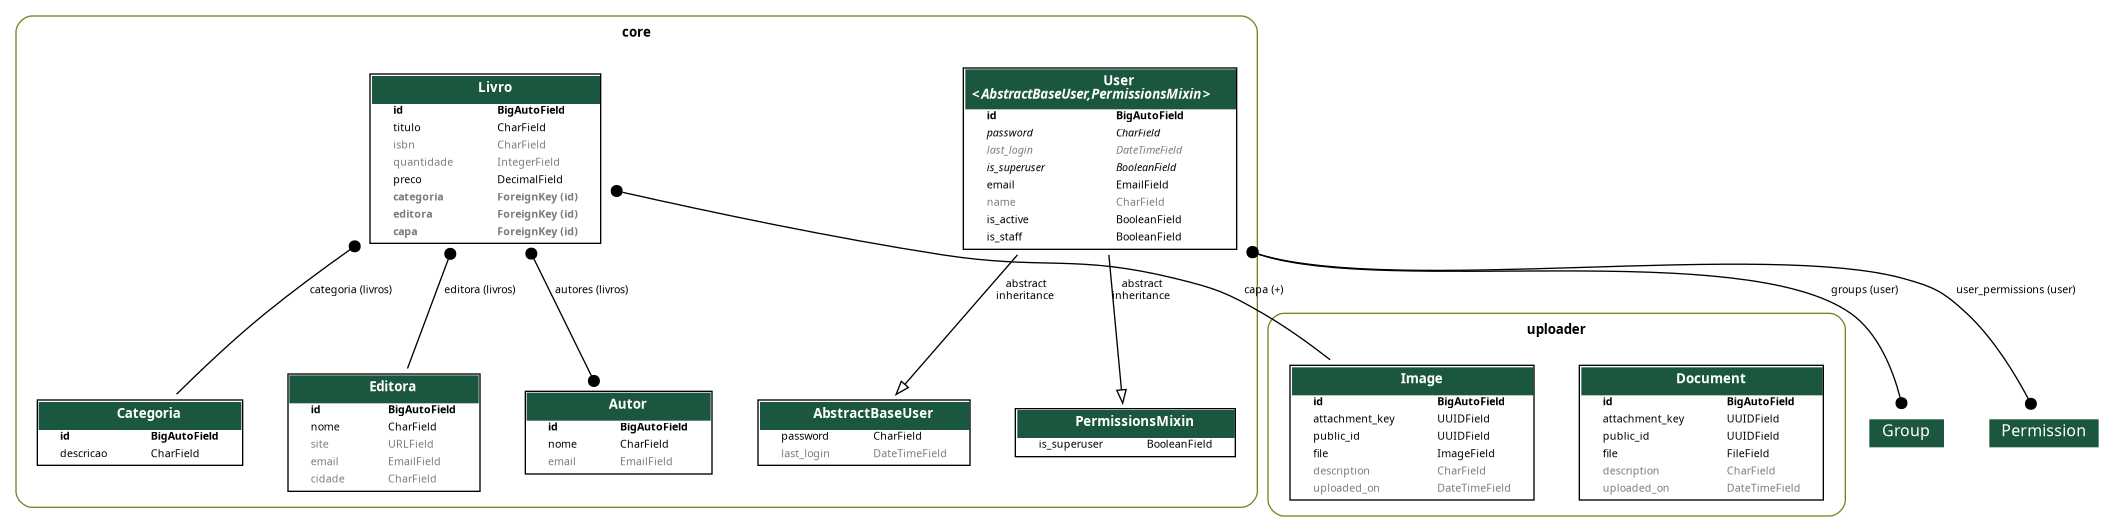
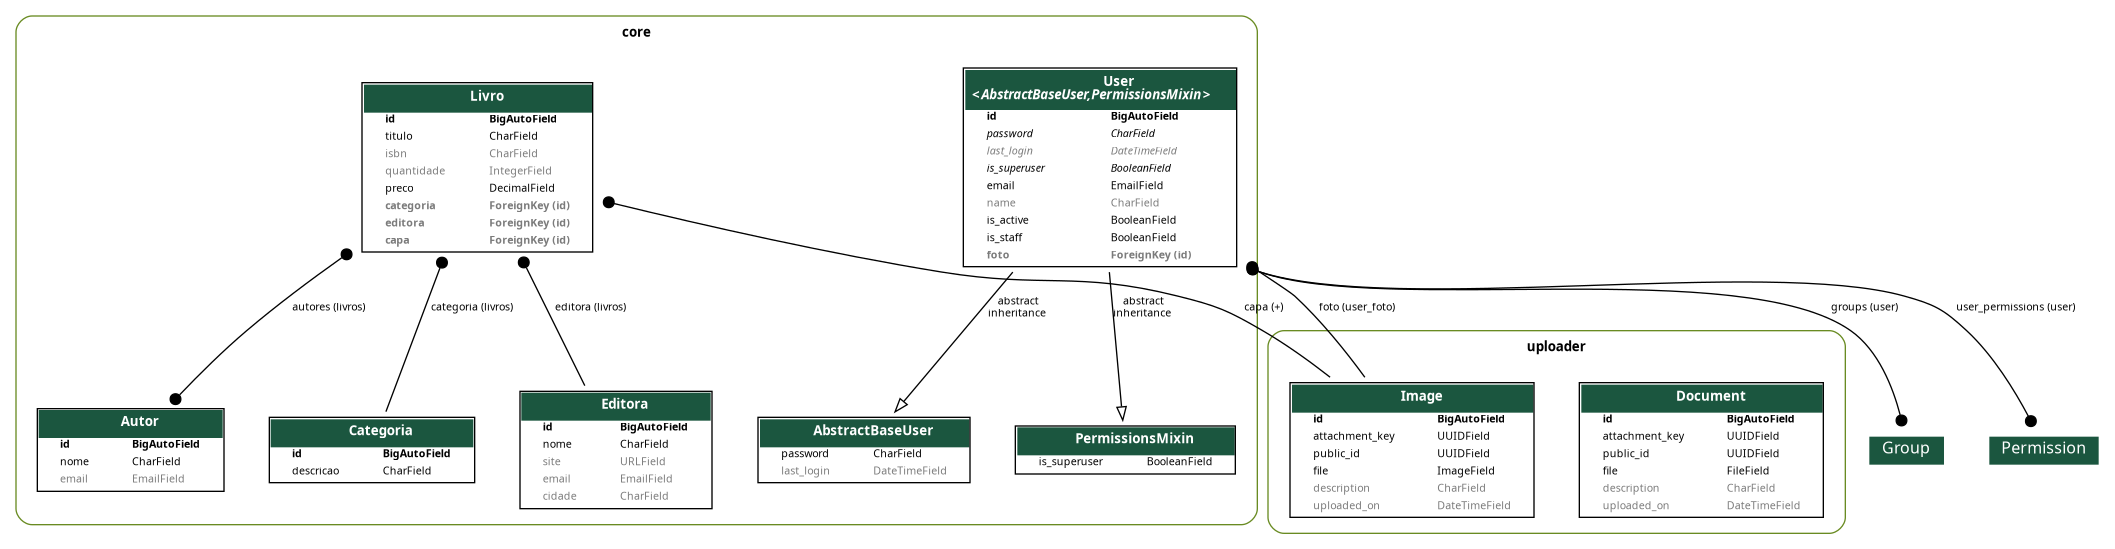
feat: inclusão da foto de perfil no usuário

diff --git a/core/migrations/0014_user_foto.py b/core/migrations/0014_user_foto.py
@@ -1,0 +1,20 @@
+# Generated by Django 5.2.13 on 2026-05-15 13:25
+
+import django.db.models.deletion
+from django.db import migrations, models
+
+
+class Migration(migrations.Migration):
+
+    dependencies = [
+        ('core', '0013_alter_livro_preco'),
+        ('uploader', '0001_initial'),
+    ]
+
+    operations = [
+        migrations.AddField(
+            model_name='user',
+            name='foto',
+            field=models.ForeignKey(blank=True, default=None, null=True, on_delete=django.db.models.deletion.SET_NULL, related_name='user_foto', to='uploader.image'),
+        ),
+    ]

diff --git a/core/serializers/user.py b/core/serializers/user.py
@@ -1,10 +1,22 @@
-from rest_framework import serializers
-from rest_framework.serializers import ModelSerializer
+from rest_framework.serializers import CharField, ModelSerializer, SlugRelatedField
 
 from core.models import User
+from uploader.models import Image
+from uploader.serializers import ImageSerializer
 
 
 class UserSerializer(ModelSerializer):
+    foto_attachment_key = SlugRelatedField(
+        source='foto',
+        queryset=Image.objects.all(),
+        slug_field='attachment_key',
+        required=False,
+        write_only=True,
+    )
+    foto = ImageSerializer(
+        required=False,
+        read_only=True
+    )
     class Meta:
         model = User
         fields = ['id', 'email', 'name', 'is_active', 'is_staff', 'is_superuser', 'last_login', 'groups']
@@ -12,7 +24,7 @@ class UserSerializer(ModelSerializer):
 
 
 class UserRegistrationSerializer(ModelSerializer):
-    password = serializers.CharField(write_only=True, min_length=8)
+    password = CharField(write_only=True, min_length=8)
 
     class Meta:
         model = User

diff --git a/core/models/user.py b/core/models/user.py
@@ -2,6 +2,8 @@
 Database models.
 """
 
+import re
+
 from django.contrib.auth.models import (
     AbstractBaseUser,
     BaseUserManager,
@@ -9,6 +11,8 @@ from django.contrib.auth.models import (
 )
 from django.db import models
 from django.utils.translation import gettext_lazy as _
+
+from uploader.models import Image
 
 
 class UserManager(BaseUserManager):
@@ -49,6 +53,15 @@ class User(AbstractBaseUser, PermissionsMixin):
         default=False,
         verbose_name=_('Usuário é da equipe'),
         help_text=_('Indica que este usuário pode acessar o Admin.'),
+    )
+
+    foto = models.ForeignKey(
+        Image,
+        related_name='user_foto',
+        on_delete=models.SET_NULL,
+        blank=True,
+        null=True,
+        default=None,
     )
 
     objects = UserManager()

diff --git a/core/admin.py b/core/admin.py
@@ -51,9 +51,10 @@ class UserAdmin(BaseUserAdmin):
 
     ordering = ['id']
     list_display = ['email', 'name']
+    search_fields = ['email', 'name', 'groups__name']
     fieldsets = (
         (None, {'fields': ('email', 'password')}),
-        (_('Personal Info'), {'fields': ('name',)}),
+        (_('Personal Info'), {'fields': ('name', 'foto',)}),
         (
             _('Permissions'),
             {
@@ -79,6 +80,7 @@ class UserAdmin(BaseUserAdmin):
                     'password1',
                     'password2',
                     'name',
+                    'foto',
                     'is_active',
                     'is_staff',
                     'is_superuser',

diff --git a/app/settings.py b/app/settings.py
@@ -148,6 +148,7 @@ AUTH_USER_MODEL = 'core.User'
 REST_FRAMEWORK = {
     'DEFAULT_AUTHENTICATION_CLASSES': ('rest_framework_simplejwt.authentication.JWTAuthentication',),
     'DEFAULT_PAGINATION_CLASS': 'app.pagination.CustomPagination',
+    'DEFAULT_PERMISSION_CLASSES': ('rest_framework.permissions.DjangoModelPermissionsOrAnonReadOnly', ),
     'DEFAULT_SCHEMA_CLASS': 'drf_spectacular.openapi.AutoSchema',
     'PAGE_SIZE': 10,
 }